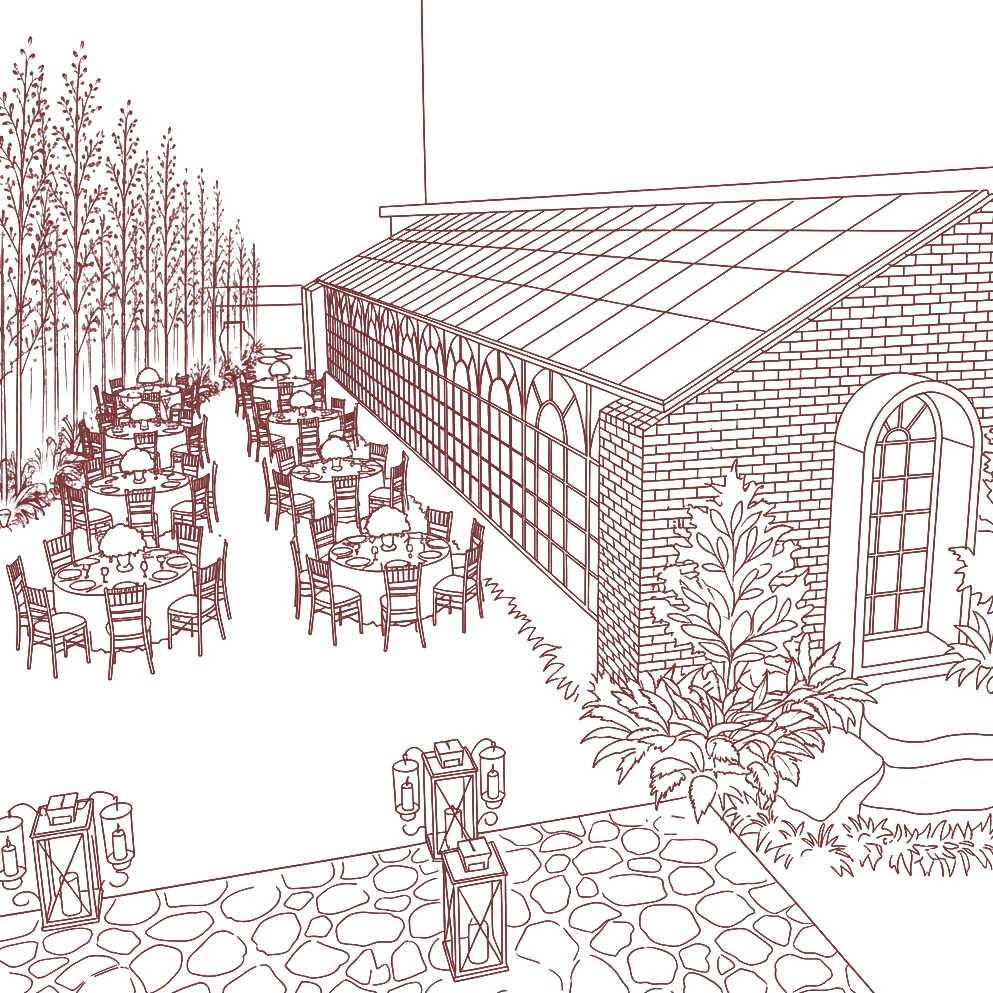
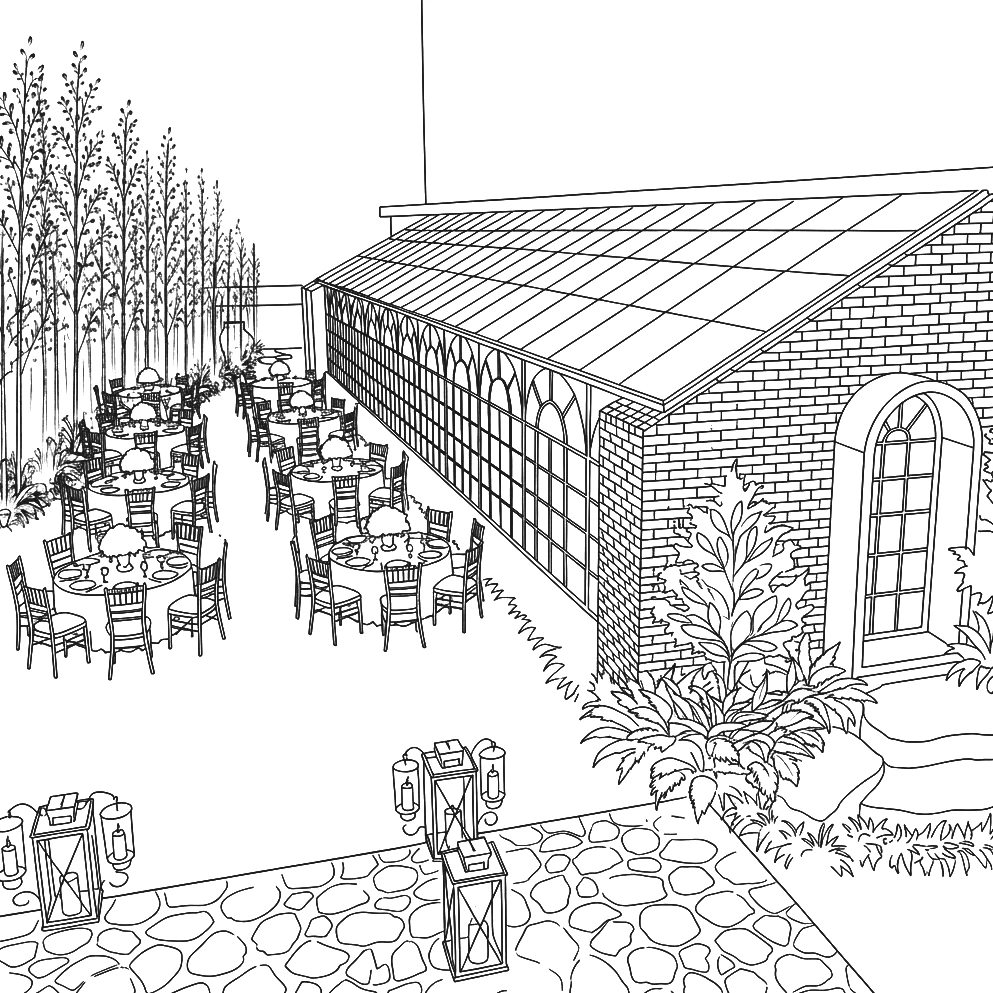
style: change all space drawings linework to premium dark charcoal-black color with matching line weight and contrast

diff --git a/index.html b/index.html
@@ -880,7 +880,7 @@ ul { list-style: none; }
     <!-- AURELIUS - Grand Hall Interior -->
     <div class="sov-card reveal">
       <div class="sov-illus">
-        <img src="veloura-imgs/sov_aurelius_crop.webp?v=24" alt="Aurelius Celebration Hall illustration" style="width:100%;height:100%;object-fit:contain;">
+        <img src="veloura-imgs/sov_aurelius_crop.webp?v=25" alt="Aurelius Celebration Hall illustration" style="width:100%;height:100%;object-fit:contain;">
       </div>
       <p class="sov-name">Aurelius</p>
       <p class="sov-sub">Celebration Hall</p>
@@ -889,7 +889,7 @@ ul { list-style: none; }
     <!-- THE PROMENADE - Garden Gazebo -->
     <div class="sov-card reveal d1">
       <div class="sov-illus">
-        <img src="veloura-imgs/sov_promenade_crop.webp?v=24" alt="The Promenade Outdoor Lawn illustration" style="width:100%;height:100%;object-fit:contain;">
+        <img src="veloura-imgs/sov_promenade_crop.webp?v=25" alt="The Promenade Outdoor Lawn illustration" style="width:100%;height:100%;object-fit:contain;">
       </div>
       <p class="sov-name">The Promenade</p>
       <p class="sov-sub">Outdoor Lawn</p>
@@ -898,7 +898,7 @@ ul { list-style: none; }
     <!-- THE LUMIERE - The Glass Pavilion -->
     <div class="sov-card reveal d2">
       <div class="sov-illus">
-        <img src="veloura-imgs/sov_lumiere.webp?v=24" alt="The Lumiere The Glass Pavilion illustration" style="width:100%;height:100%;object-fit:contain;">
+        <img src="veloura-imgs/sov_lumiere.webp?v=25" alt="The Lumiere The Glass Pavilion illustration" style="width:100%;height:100%;object-fit:contain;">
       </div>
       <p class="sov-name">The Lumiere</p>
       <p class="sov-sub">The Glass Pavilion</p>
@@ -907,7 +907,7 @@ ul { list-style: none; }
     <!-- CELESTIA - Dining Hall -->
     <div class="sov-card reveal d3">
       <div class="sov-illus">
-        <img src="veloura-imgs/sov_celestia_crop.webp?v=24" alt="Celestia Dining Hall illustration" style="width:100%;height:100%;object-fit:contain;">
+        <img src="veloura-imgs/sov_celestia_crop.webp?v=25" alt="Celestia Dining Hall illustration" style="width:100%;height:100%;object-fit:contain;">
       </div>
       <p class="sov-name">Celestia</p>
       <p class="sov-sub">Dining Hall</p>
